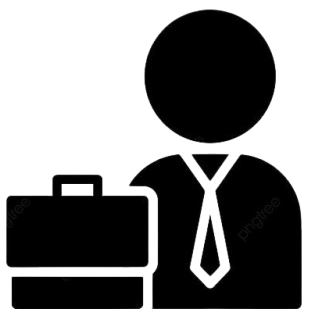
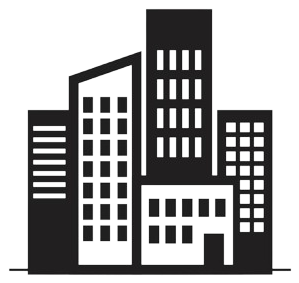
added Industries Component

diff --git a/src/components/Industries.jsx b/src/components/Industries.jsx
@@ -8,7 +8,7 @@ import factoryImg from "../assets/industries/factory.webp";
 const Industries = () => {
   return (
     <div className="max-w-[90rem] [font-family:'Mozilla_Headline',sans-serif]   mx-auto">
-      <div className="flex flex-col gap-30">
+      <div className="flex flex-col gap-20">
         <div className="gap-3 flex flex-col">
           <h3 className="text-5xl font-black">
             Built for{" "}
@@ -21,16 +21,16 @@ const Industries = () => {
           </p>
         </div>
 
-        <div className="grid grid-cols-5 grid-rows-1 gap-4 border">
+        <div className="grid grid-cols-5 grid-rows-1 gap-4 ">
           <div className="w-fit   flex flex-col  bg-black border-[#00000057] border-2 py-4 px-3 gap-4">
             <div className="  px-4 flex justify-center">
               <img
-                className="h-full brightness-0 invert w-40 object-fit"
+                className="h-full brightness-0 invert object-fit"
                 src={corporateImg}
                 alt=""
               />
             </div>
-            <div className=" flex text-white justify-center flex-col text-center ">
+            <div className=" flex gap-2 text-white justify-center flex-col text-center ">
               <h4 className="text-3xl font-extrabold">Corporate Offices</h4>
               <p className="text-lg text-[#ffffffba] ">
                 Control access, impress clients, log every guest professionally.
@@ -41,12 +41,12 @@ const Industries = () => {
           <div className="w-fit  flex flex-col  bg-black border-[#00000057] border-2 py-4 px-3 gap-4">
             <div className="  px-4 flex justify-center">
               <img
-                className="h-full brightness-0 invert w-40 object-fit"
+                className="h-full brightness-0 invert object-fit"
                 src={schoolImg}
                 alt=""
               />
             </div>
-            <div className=" flex text-white justify-center flex-col text-center ">
+            <div className=" flex gap-2 text-white justify-center flex-col text-center ">
               <h4 className="text-3xl font-extrabold">Schools & Colleges</h4>
               <p className="text-lg text-[#ffffffba] ">
                 Know who enters your campus. Keep students safe, always.
@@ -54,15 +54,15 @@ const Industries = () => {
             </div>
           </div>
 
-          <div className="w-fit   flex flex-col  bg-black border-[#00000057] border-2 py-4 px-3 gap-4">
+          <div className="w-fit  justify-around  flex flex-col  bg-black border-[#00000057] border-2 py-4 px-3 gap-4">
             <div className="  px-4 flex justify-center">
               <img
-                className="h-full brightness-0 invert w-40 object-fit"
+                className="h-full brightness-0 invert object-fit"
                 src={hospitalImg}
                 alt=""
               />
             </div>
-            <div className=" flex text-white justify-center flex-col text-center ">
+            <div className=" flex gap-3 text-white justify-center flex-col text-center ">
               <h4 className="text-3xl font-extrabold">Hospitals & Clinics</h4>
               <p className="text-lg text-[#ffffffba] ">
                 Manage patient attendants, restrict ward access, ensure hygiene